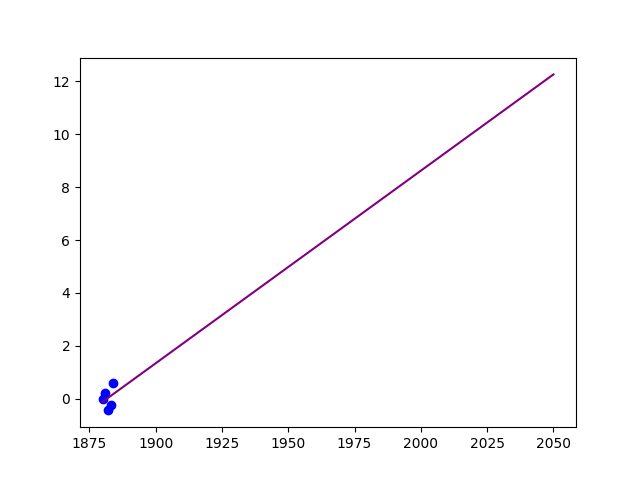
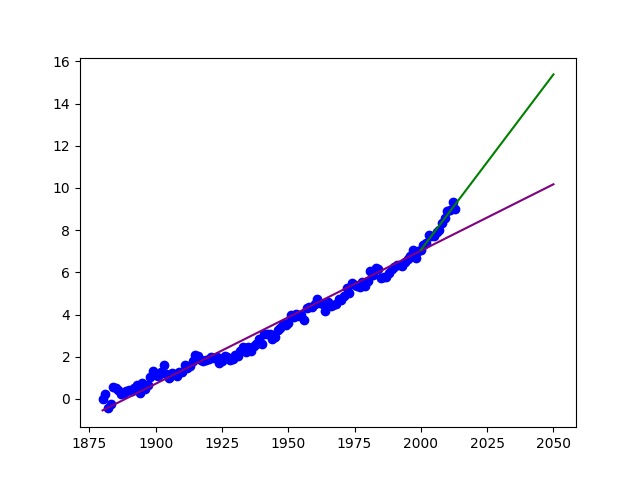
Agregando nueva linea del 2000-2050

diff --git a/sea_level_predictor.py b/sea_level_predictor.py
@@ -9,22 +9,29 @@ def draw_plot():
     x = df['Year']
     y = df['CSIRO Adjusted Sea Level']
     
-    fig, ax = plt.subplots()
+    fig, ax = plt.subplots() # Verify doc
     plt.scatter(x, y, color='blue', label='Data points')
 
     # Create first line of best fit 
     lin_reg = linregress(x,y) # Perform linear regression
     print(lin_reg)
     x_ax = pd.Series([i for i in range(1880,2051)])
-    y_ec = lin_reg.slope*x_ax + lin_reg.intercept
-    plt.plot(x_ax, y_ec, color='purple')
+    y_fit1 = lin_reg.slope*x_ax + lin_reg.intercept
+    plt.plot(x_ax, y_fit1, color='purple')
     
-
     # Create second line of best fit
-
-
+    new_ax = df.loc[df['Year'] >= 2000]
+    X = new_ax["Year"]
+    Y = new_ax["CSIRO Adjusted Sea Level"]
+    lin_reg2 = linregress(X,Y)
+    x_ax2 = pd.Series([i for i in range(2000,2051)])
+    Y_fit2 = lin_reg2.slope*x_ax2 + lin_reg2.intercept
+    plt.plot(x_ax2, Y_fit2, color='green')
+    
     # Add labels and title
-
+    ax.set_xlabel("Year")
+    ax.set_ylabel("Sea Level - Inches")
+    ax.set_title("Rise in Sea Level")
     
     # Save plot and return data for testing 
     plt.savefig('sea_level_plot.png')
